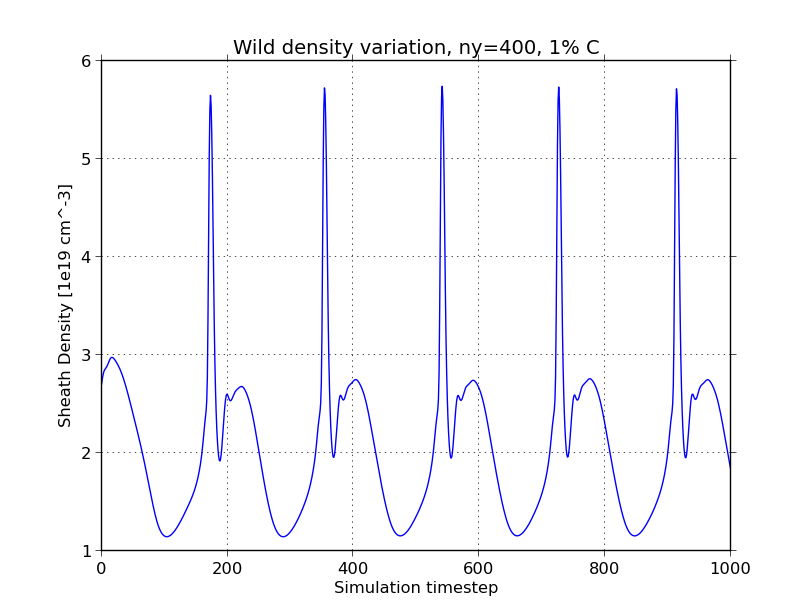
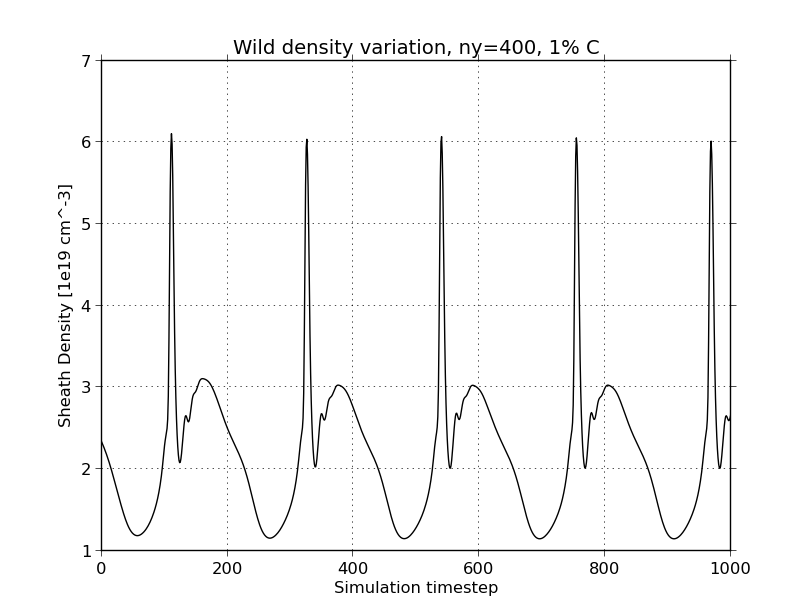
finished Temp comp section, added more netg wild var images

diff --git a/Latex_docs/initialthoughts.tex b/Latex_docs/initialthoughts.tex
@@ -90,6 +90,7 @@ SOL1D was installed on the remote server and some test simulations run to achiev
 Following SOL1D simulations, 2D simulations follow, with the initial goal being to compare results to the 1D case.
 
 \section{Results and Analysis}\label{sec:Results}
+\subsection{SOL1D}\label{ssec:SOL1D}
 After a number of time-steps of SOL1D simulation it will usually settle down and get close to a steady-state solution. This can be seen in figure~\ref{fig:ne_var_ny=800} - the variable's, \neupstream, oscillations are damped to a very small amplitude as the simulation progresses and it approaches steady-state, which took about 24 hours to reach its current point. Perhaps the simulation could have been stopped earlier, however this would increase the uncertainty in all the output data. Simulations with lower resolution do not reach a steady state in fewer time points, but they are faster to run so they reach it quicker in real time.
 
 \begin{figure}
@@ -120,6 +121,7 @@ An important first step when running grid simulations is to ascertain an accepta
 \caption{Density at sheath, \netg, at approximately steady-state for different y-axis resolutions in SOL1D.}\label{fig:RichExtrp_neres}
 \end{figure}
 
+\subsubsection{Temperature comparison}\label{sssec:tempcomp}
 Two key parameters to be analysed are the upstream and target temperatures, \Tus and \Ttg. The whole point of divertor detachment is to reduce the power flux impacting on the divertor. \Ttg sets the voltage across the sheath, which in turn influences the velocity of ions impacting on the solid divertor target (ions in the simulation have a fixed velocity when entering the sheath - the Bohm velocity). The lower \Ttg, the less damage will be done to the divertor plates. Figure~\ref{fig:TT_IMPCOMBO2} shows the difference between \Tus and \Ttg for different \neus values at each of the resolutions in table~\ref{tab:sol1dres}. When looking to reduce \Ttg, the trade off is the corresponding fall in \Tus. As the upstream is at the SOL midplane, any changes there will be translated directly into the main plasma. 
 
 Similarly shaped temperature profiles are observed for all resolutions in figure~\ref{fig:TT_IMPCOMBO2}, \Tus falls slowly while \Ttg falls rapidly with increasing \neus, until above $2.25\e{19}$ cm$^{-3}$ when it starts to fall extremely fast. At this point, the density profile has pulled away from the divertor and this extra density flooding into the upstream is reducing the temperature there. If an operational 'sweet-spot' exists, then it is in the range $2\e{19}$ cm$^{-3}$ < \neus < $2.25\e{19}$ cm$^{-3}$, as here \Ttg has practically reached it's lower limit while \Tus is still quite high.
@@ -130,13 +132,17 @@ Similarly shaped temperature profiles are observed for all resolutions in figure
 \caption{Comparison of $T_{upstream}$ and $T_{target}$ at varying set $n_{e~upstream}$ for different y-axis resolutions in SOL1D}\label{fig:TT_IMPCOMBO2}
 \end{figure}
 
-Simulations from \noNe{3} onwards shown in figure~\ref{fig:TT_IMPCOMBO2} are detaching and reattaching in quick succession, so they are unlikely to approach a steady state within a reasonable number of timesteps. When detached, the upstream temperatures in these simulations follow the downward trend observed with increasing \neus. However, when the system destabilises and rushes to reattach to the target plates, the upstream temperature shoots up. If these higher density simulations are terminated during a period of detachment, \Tus will be low, as is the case for all the \noNe{3.75} runs. Conversely, if they are terminated when the density profile has reattached, \Tus will be much higher, which can be seen in the data points at \noNe{3.5} for ny = 400 \& 600 cells. This cyclical detachment and reattachment is portrayed in figure~\ref{fig:ny400r35netg} - here \netg is observed following a pattern of peaks (when system is attached to the target) and troughs (when the system is detached).
+Simulations from \noNe{3} onwards shown in figure~\ref{fig:TT_IMPCOMBO2} are detaching and reattaching in quick succession, so they are unlikely to approach a steady state within a reasonable number of timesteps. When detached, the upstream temperatures in these simulations follow the downward trend observed with increasing \neus. However, when the system destabilises and rushes to reattach to the target plates, the upstream temperature shoots up. If these higher density simulations are terminated during a period of detachment, \Tus will be low, as is the case for all the \noNe{3.75} runs. Conversely, if they are terminated when the density profile has reattached, \Tus will be much higher, which can be seen in the data points at \noNe{3.5} for ny = 400 \& 600 cells. This cyclical detachment and reattachment is portrayed in figure~\ref{fig:ny400800r35netg} - here \netg is observed following a pattern of peaks (when system is attached to the target) and troughs (when the system is detached). In the case of the black line, with y-axis resolution of 400 cells, the simulation has completed when the sheath density is still far higher than its minimum value, so the density profile is still in the process of detaching from the target surface. Consequently, the upstream temperature is still relatively quite high. The red line is from a simulation with the same input values but using 800 cells along the y-axis, here termination has occurred when the density profile is almost fully detached from the target, hence the upstream temperature is quite low. This termination snapshot effect can be seen in figure~\ref{fig:TT_IMPCOMBO2} at \noNe{3.5}, where the upstream temperature with 400 cells is much higher than that for 800 cells.
 
 \begin{figure}
-\includegraphics[scale=0.5]{Figures/sol1d/ny400r35netg.png}
+\includegraphics[scale=0.5]{Figures/sol1d/ny400800r35netg.png}
 \centering
-\caption{Continual detachment and reattachment causes this target $n_e$ variation for ny = 400 cells run with \neus~set to \noNe{3.5}.}\label{fig:ny400r35netg}
+\caption{Continual detachment and reattachment causes the target $n_e$ variations for ny = 400 and 800 cells run with \neus~set to \noNe{3.5}.}\label{fig:ny400800r35netg}
 \end{figure}
+
+
+\subsubsection{Pressure Loss}\label{sssec:Ploss}
+
 
 
 \section{Conclusion}\label{sec:Conclusion}
